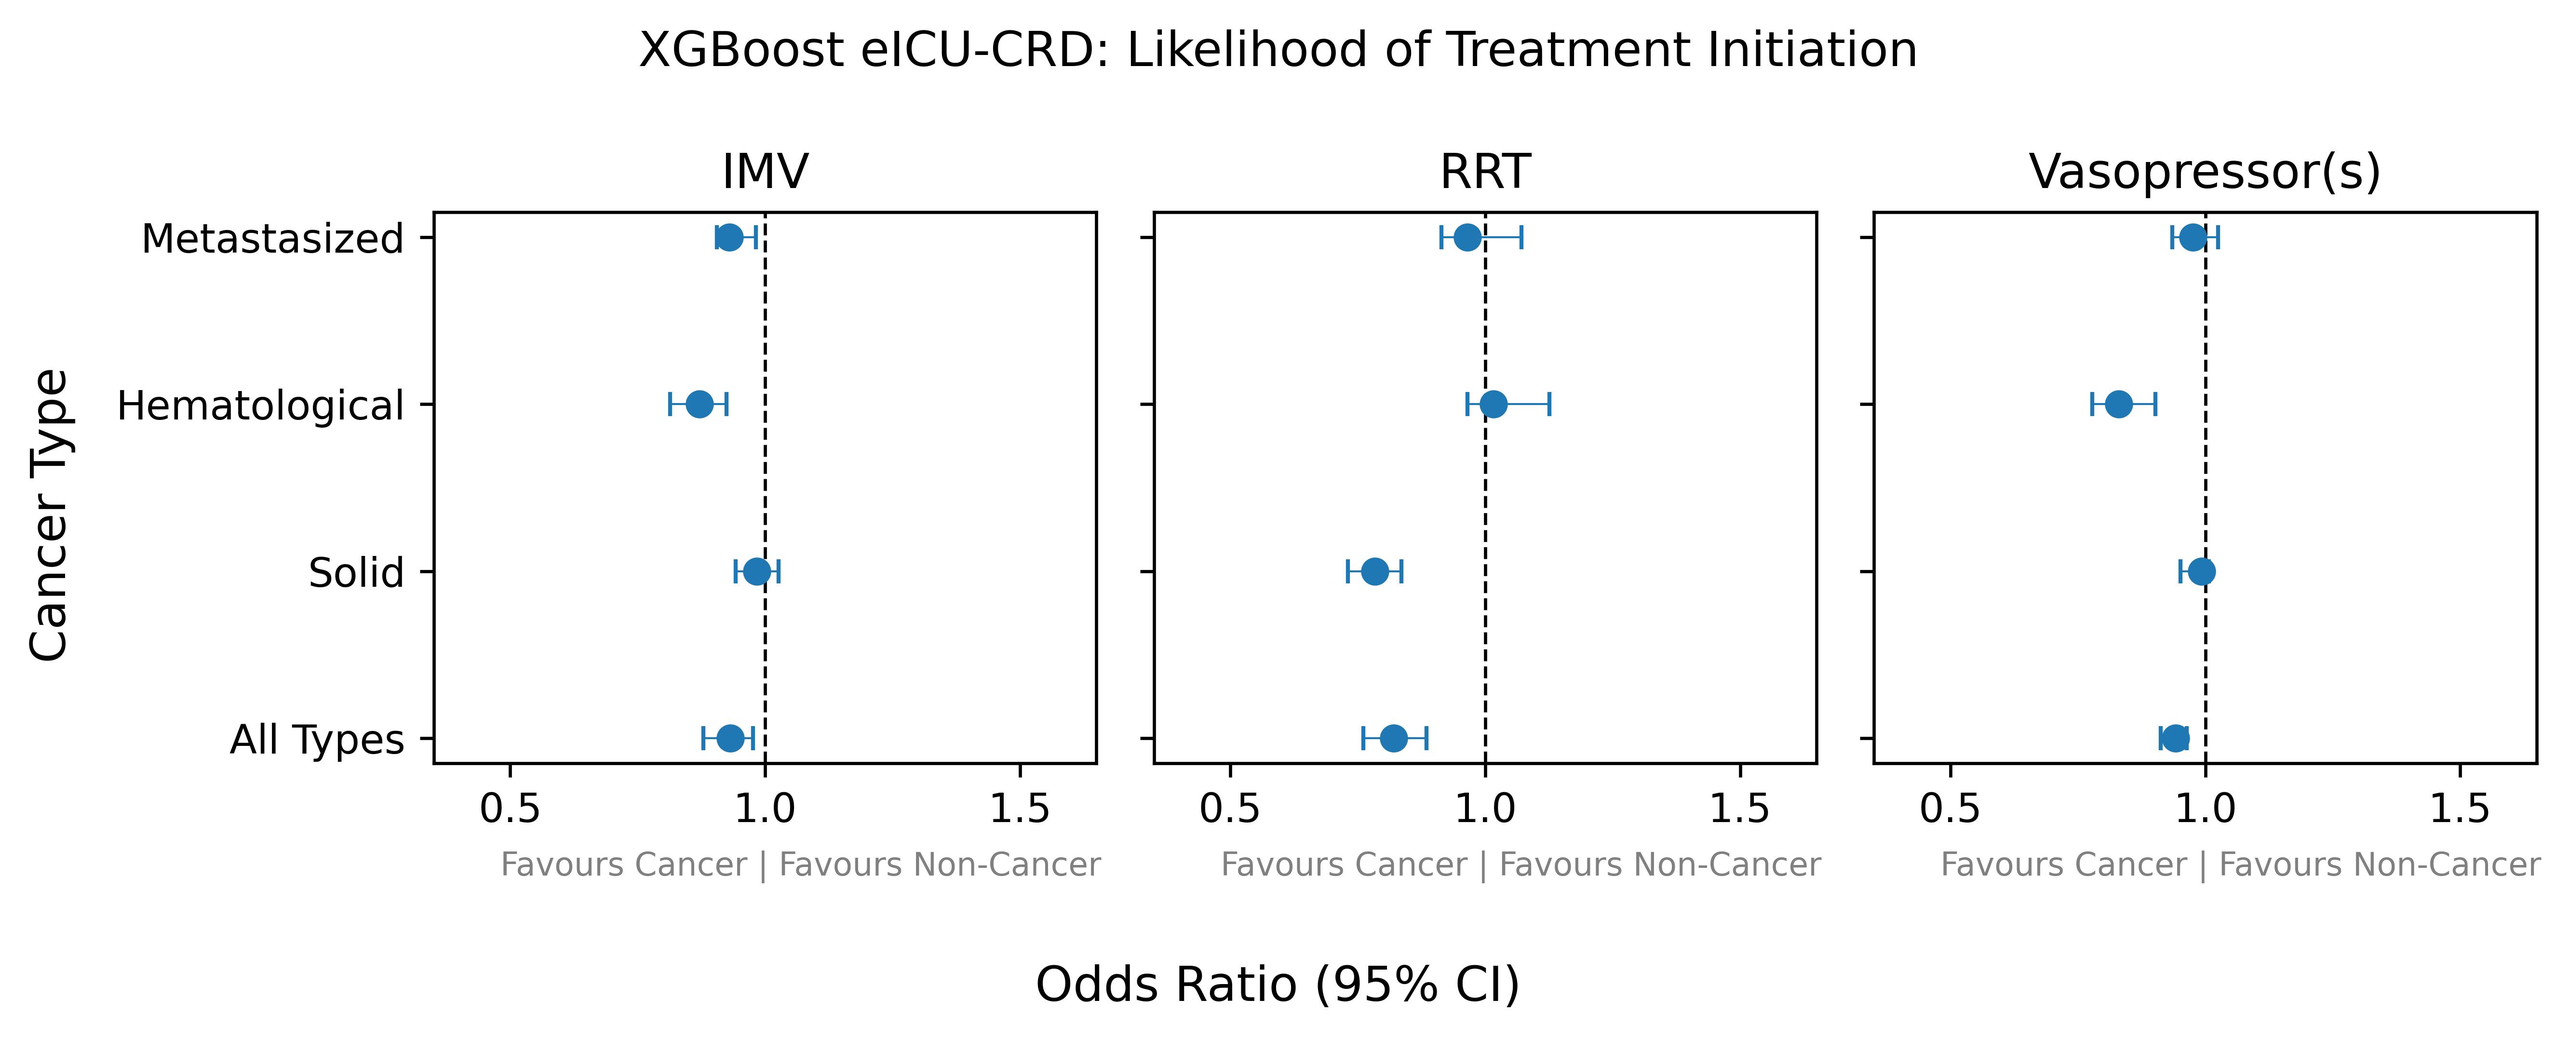
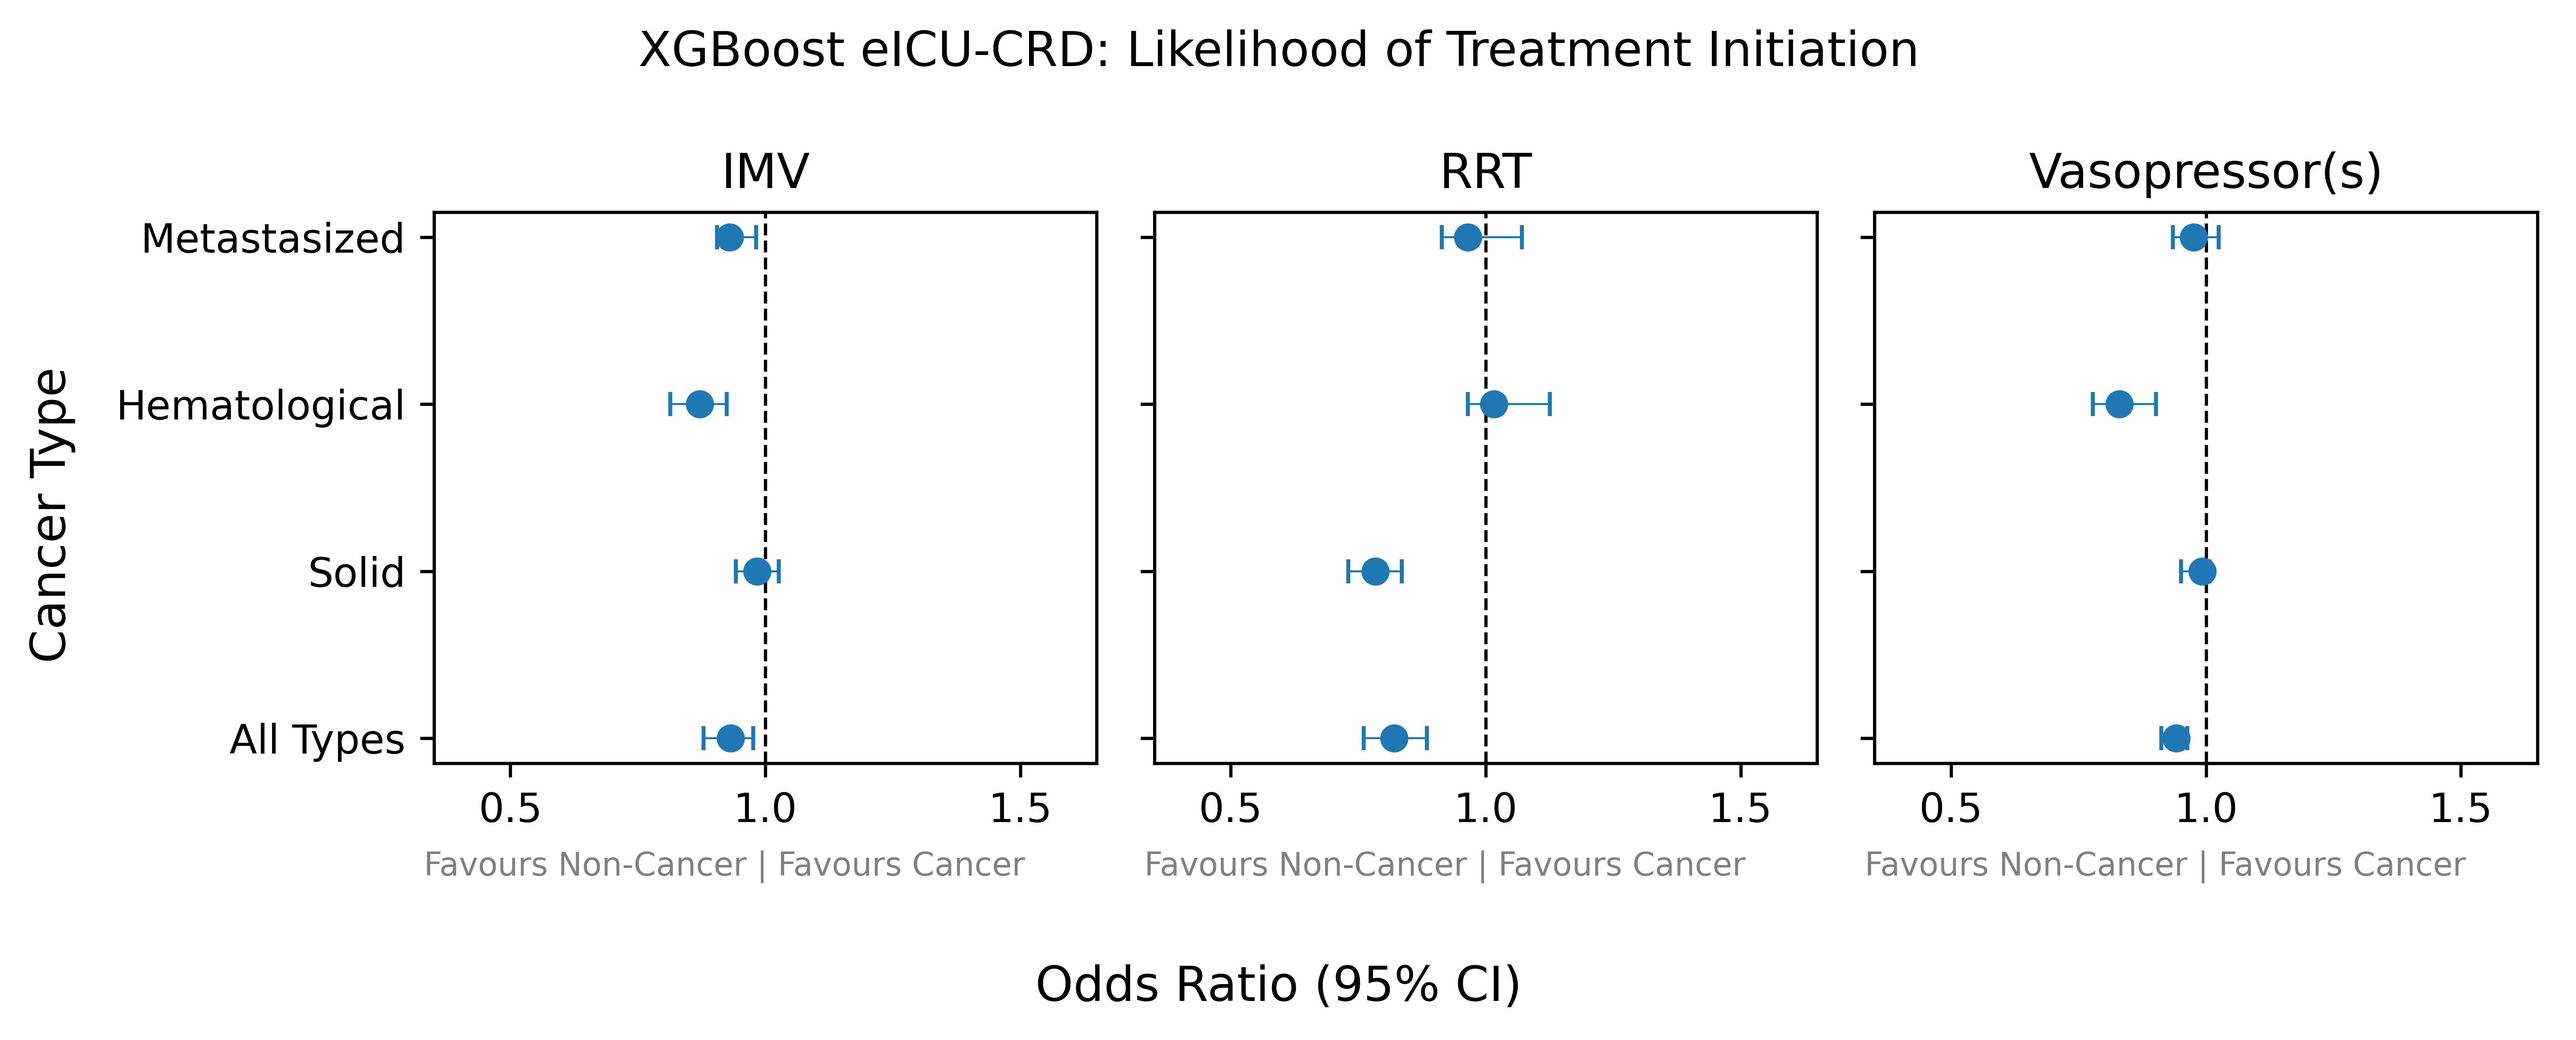
Fix caption cancer and noncancer

diff --git a/src/6_plots/plot_likelihood.py b/src/6_plots/plot_likelihood.py
@@ -50,7 +50,7 @@ def plot_results(filename, model_name):
         # set yticks in string format
         # ax.set_yticks([3,6,9,12])
         ax.set_yticklabels(cancer_names)
-        ax.set_xlabel("       Favours Cancer | Favours Non-Cancer",
+        ax.set_xlabel("Favours Non-Cancer | Favours Cancer        ",
                     fontsize=8, labelpad=5, color='gray')
         
 
